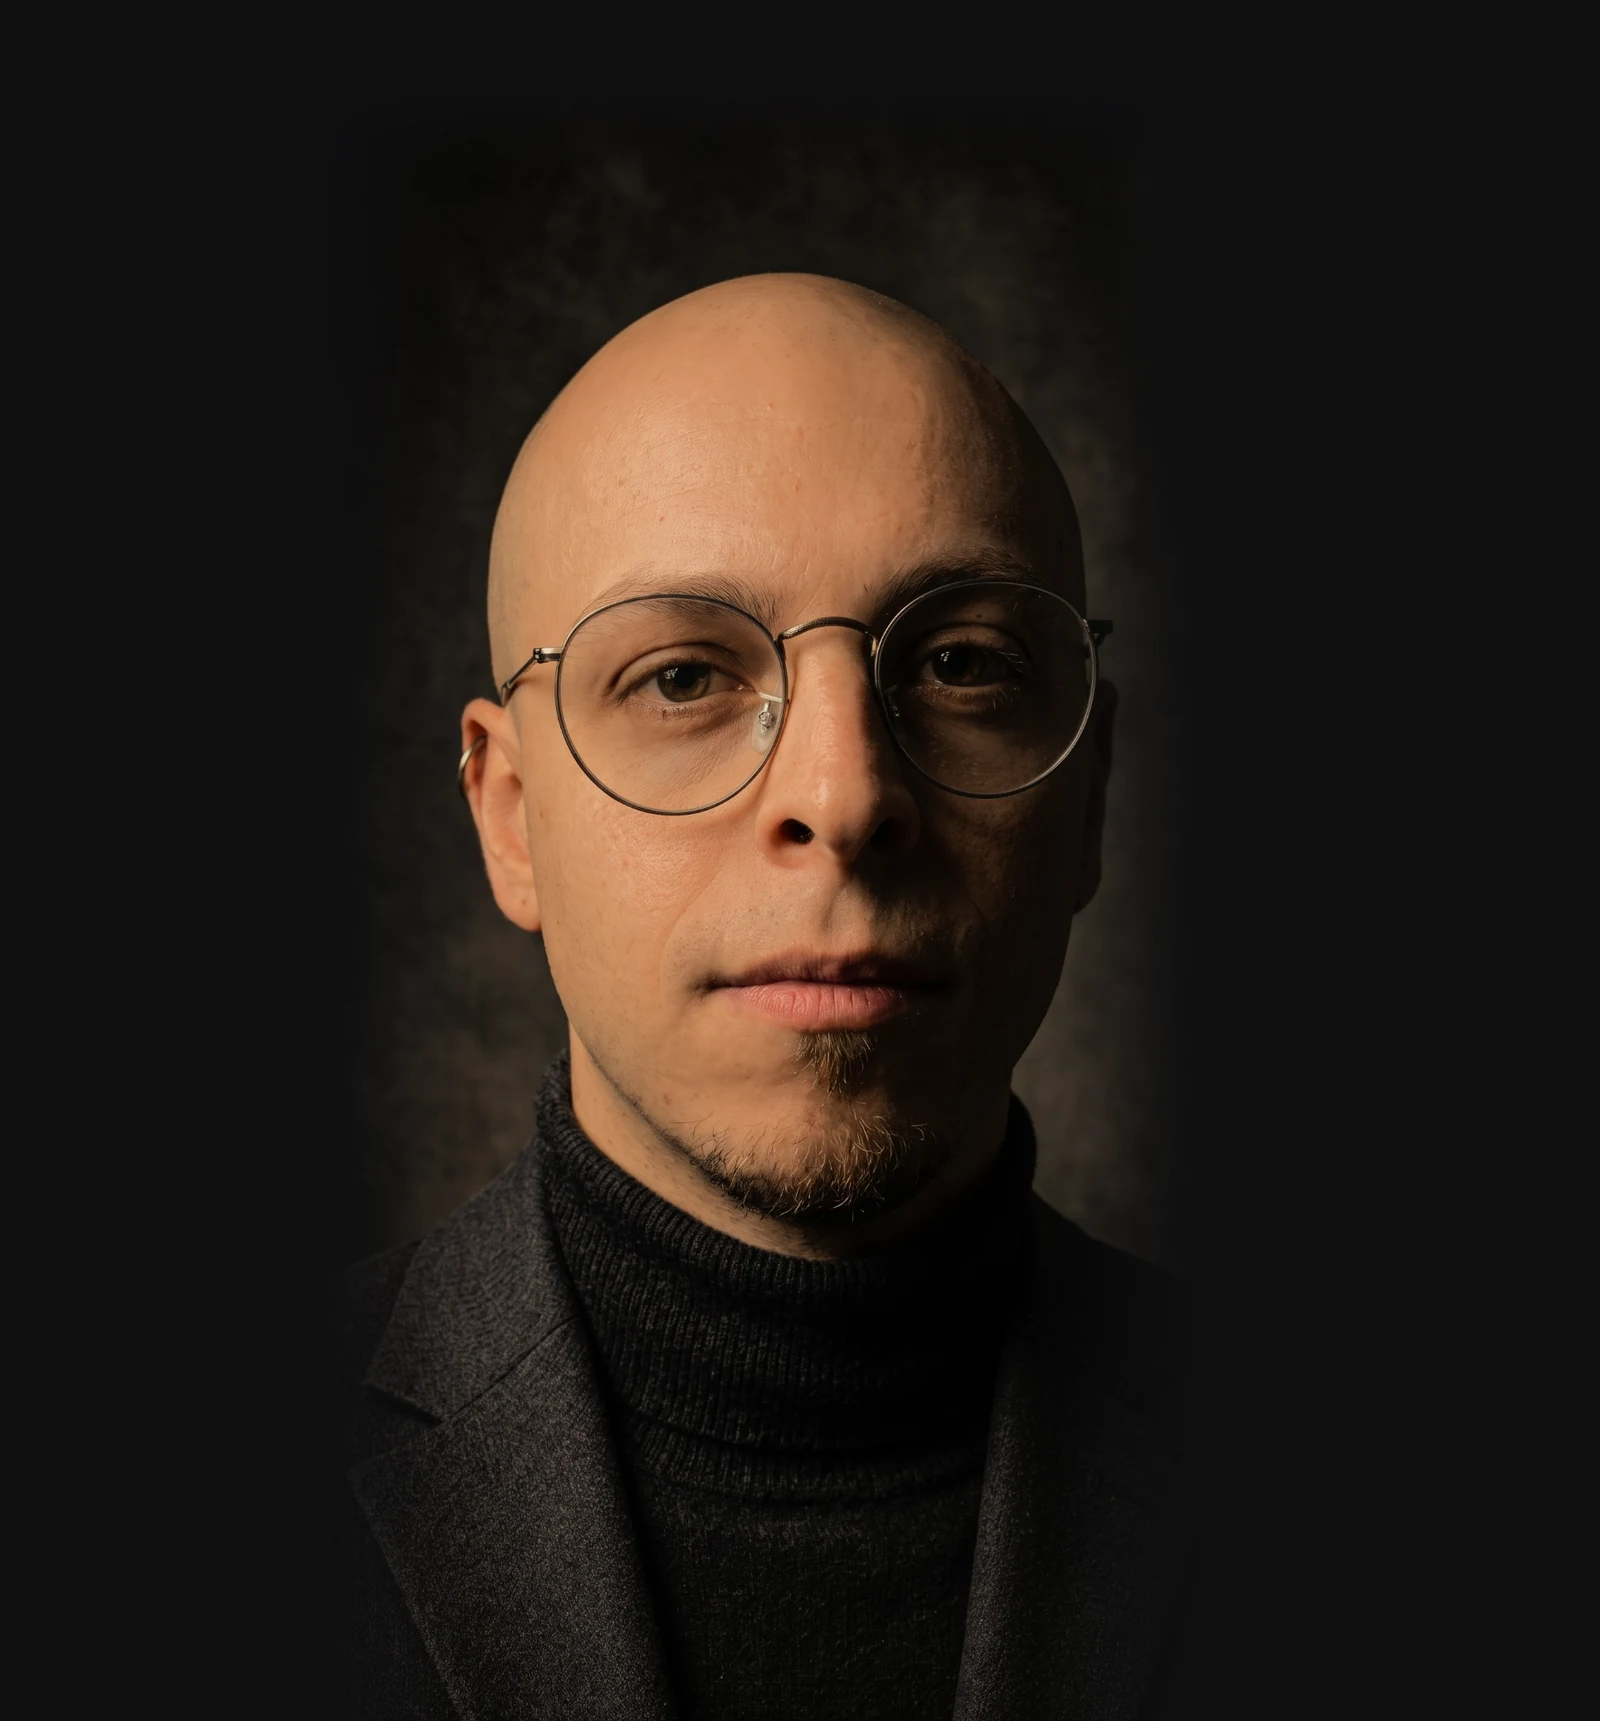
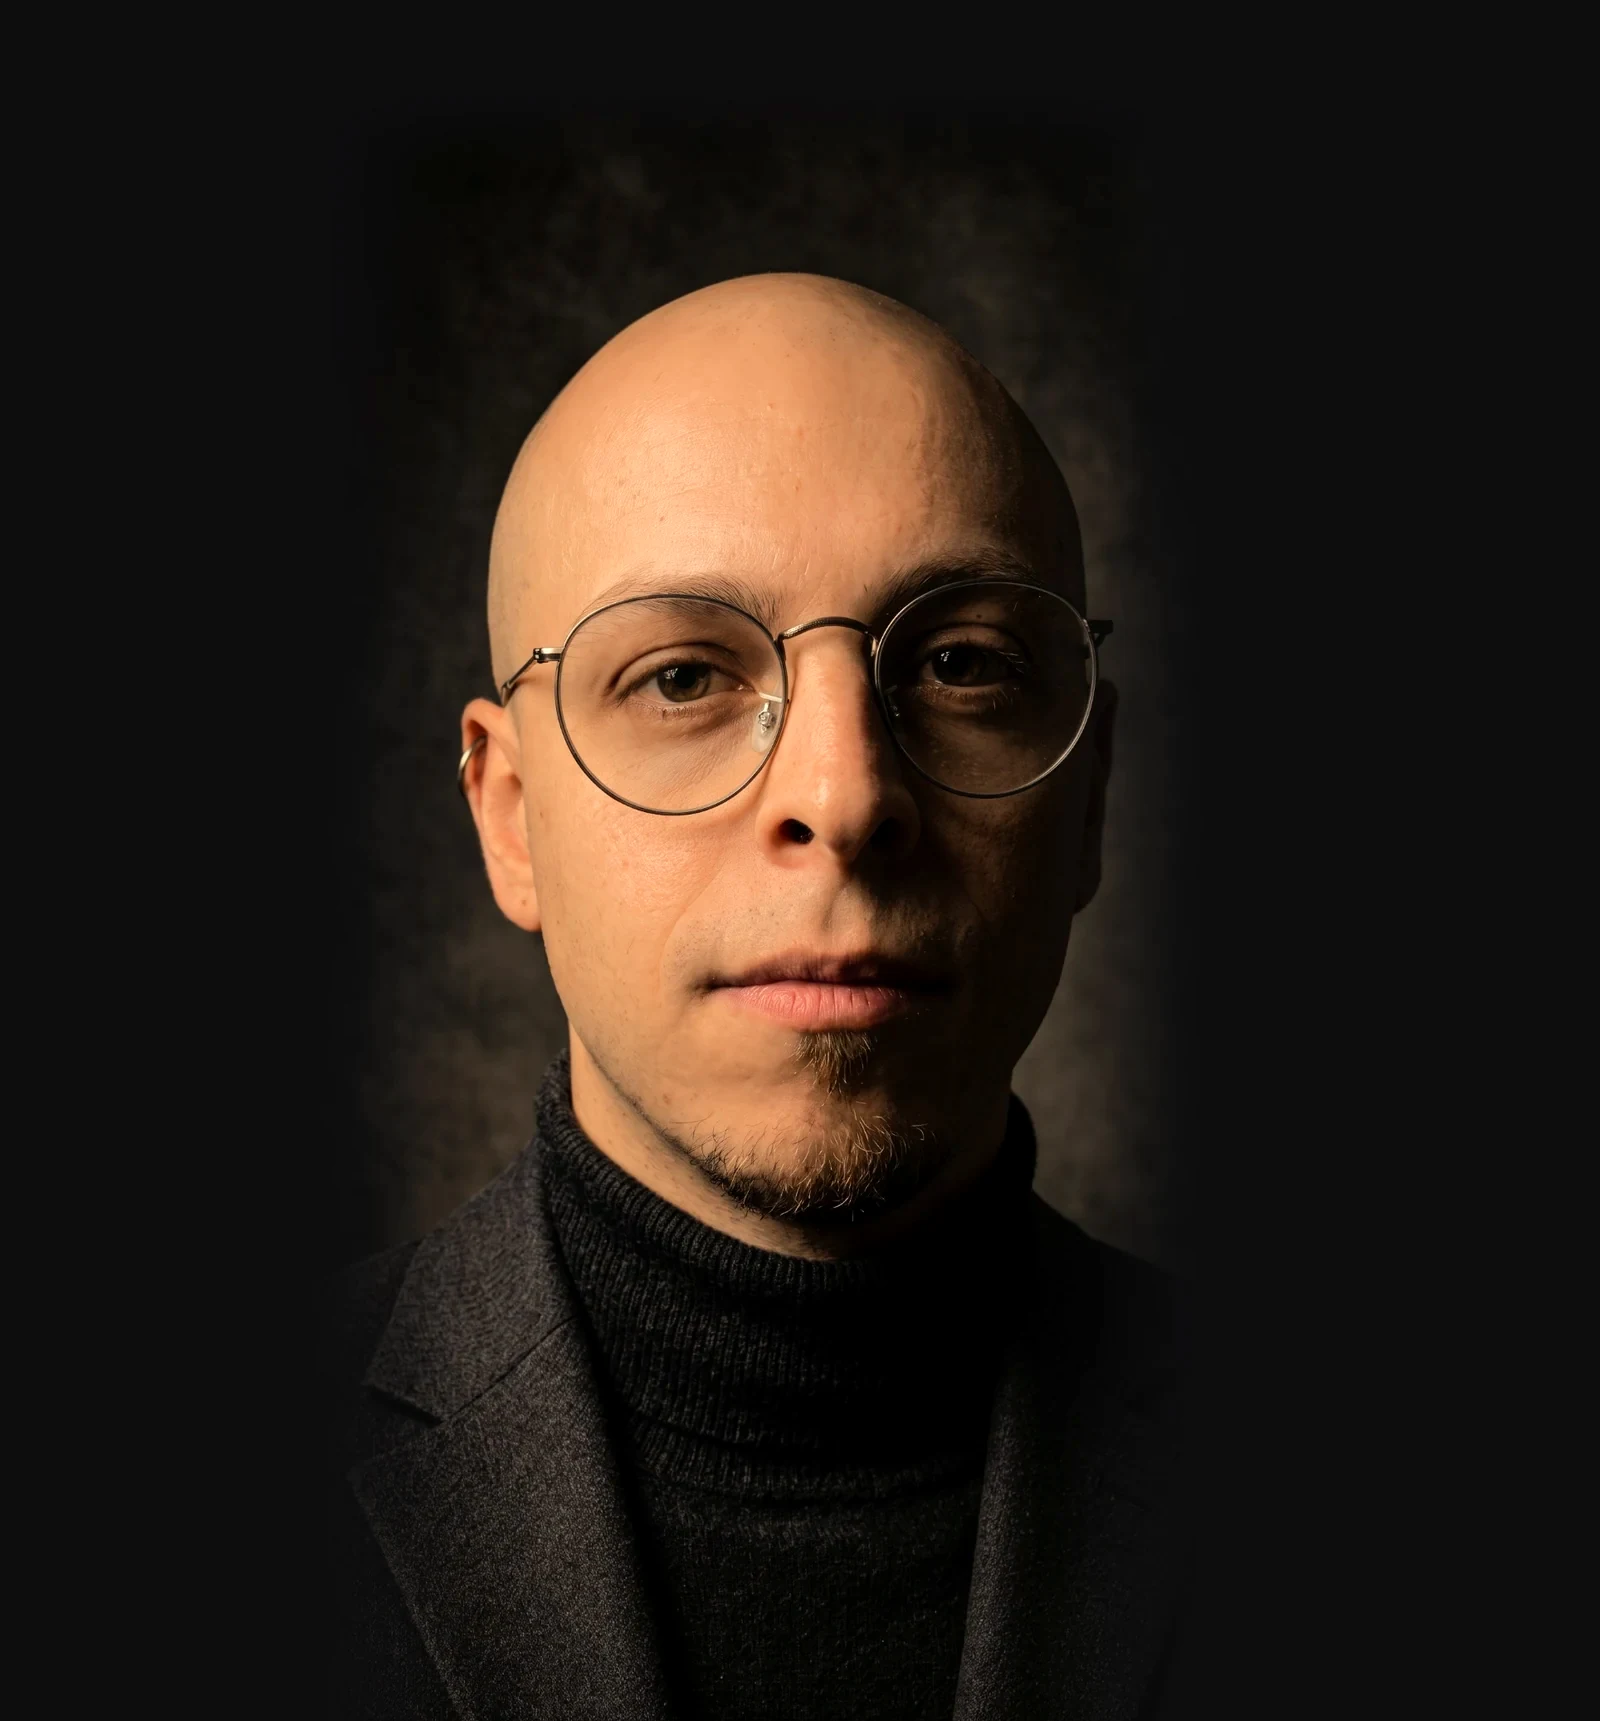
Foto in home: luminosità nell'immagine, non più come filtro CSS
La foto era schiarita con filter: brightness(1.15) contrast(1.04).
Safari su iPhone applica i filtri CSS in modo diverso da Chrome, così
la stessa foto risultava più chiara e slavata su iPhone e più calda e
contrastata altrove. Ora la correzione è già dentro photo.webp e
photo-mobile.webp e il filtro è tolto: tutti i browser mostrano gli
stessi pixel, con il tono caldo. Bordi sempre #0D0D0E. Versione v=28.

Claude-Session: https://claude.ai/code/session_0117AcoAoRNxCeiVuVm8eKGz

Changed region(s): [[0.2812, 0.154, 0.5938, 0.7391]]

diff --git a/portfolio-redesign.css b/portfolio-redesign.css
@@ -199,7 +199,7 @@ h2,h3{font-family:var(--sans);font-weight:700;letter-spacing:-.045em}
  .hero-inner{width:100%;max-width:none;margin:0}
  .hero-photo-frame{left:auto;right:auto;margin:0;width:100%;max-width:100%;height:clamp(350px,105vw,580px);background:#17161B}
  .hero-photo-frame picture{width:100%;height:100%}
- .hero-photo-frame .hero-portrait{width:100%;height:100%;object-fit:cover;object-position:center 32%;filter:brightness(1.15) contrast(1.04)}
+ .hero-photo-frame .hero-portrait{width:100%;height:100%;object-fit:cover;object-position:center 32%}
 }
 
 /* Desktop: use one viewport-aligned rail, with a soft portrait-to-page fade. */
@@ -226,7 +226,7 @@ h2,h3{font-family:var(--sans);font-weight:700;letter-spacing:-.045em}
  .hero-photo-frame::after{
   background:linear-gradient(to right,var(--bg) 0%,rgba(23,22,27,.88) 16%,rgba(23,22,27,.28) 38%,transparent 55%),linear-gradient(to bottom,transparent 88%,rgba(23,22,27,.25) 100%);
  }
- .hero-photo-frame .hero-portrait{object-position:right center;filter:brightness(1.15) contrast(1.04)}
+ .hero-photo-frame .hero-portrait{object-position:right center}
 }
 
 /* Desktop final: progressive feathering around the portrait, not over the face. */

diff --git a/index.html b/index.html
@@ -96,9 +96,9 @@
     <div class="hero-photo-frame">
       <div class="hero-entry"><span class="hero-entry-name" aria-hidden="true">Nicolò Forcolin</span><a class="scroll-btn" href="#hero-name"><span class="visually-hidden" data-i18n="scroll_btn">Entra nel sito</span><span class="entry-mark" aria-hidden="true"><span class="entry-line"></span><span class="entry-dot"></span></span></a></div>
       <picture>
-        <source media="(max-width:700px)" srcset="photo-mobile.webp?v=27" type="image/webp">
-        <source srcset="photo.webp?v=27" type="image/webp">
-        <img class="hero-portrait" id="avatarPhoto" src="photo.webp?v=27" alt="Nicolò Forcolin" width="4000" height="1696" fetchpriority="high">
+        <source media="(max-width:700px)" srcset="photo-mobile.webp?v=28" type="image/webp">
+        <source srcset="photo.webp?v=28" type="image/webp">
+        <img class="hero-portrait" id="avatarPhoto" src="photo.webp?v=28" alt="Nicolò Forcolin" width="4000" height="1696" fetchpriority="high">
       </picture>
     </div>
   </div>

diff --git a/tests/site-regression.test.js b/tests/site-regression.test.js
@@ -69,8 +69,8 @@ assert(home.includes('id="heroIntro"'), 'Hero intro paragraph missing');
 for (const language of ['it', 'en']) assert(dictionaries[language].includes('hero_intro:'), language + ': hero intro missing');
 assert(home.includes('data-i18n="skip_to_content"'), 'Skip link must be translated');
 assert(home.includes('class="hero-filmstrip"'), 'Hero filmstrip must link to the real pages');
-assert(home.includes('srcset="photo.webp?v=27"'), 'New portrait must be displayed');
-assert(home.includes('srcset="photo-mobile.webp?v=27"'), 'Mobile portrait crop must be displayed');
+assert(home.includes('srcset="photo.webp?v=28"'), 'New portrait must be displayed');
+assert(home.includes('srcset="photo-mobile.webp?v=28"'), 'Mobile portrait crop must be displayed');
 assert(!home.includes('class="info-dialog"'), 'Project dialogs were replaced by pages');
 
 assert(read('rag-aziendale.html').includes('data-i18n="c1_summary"'), 'RAG summary must remain');
